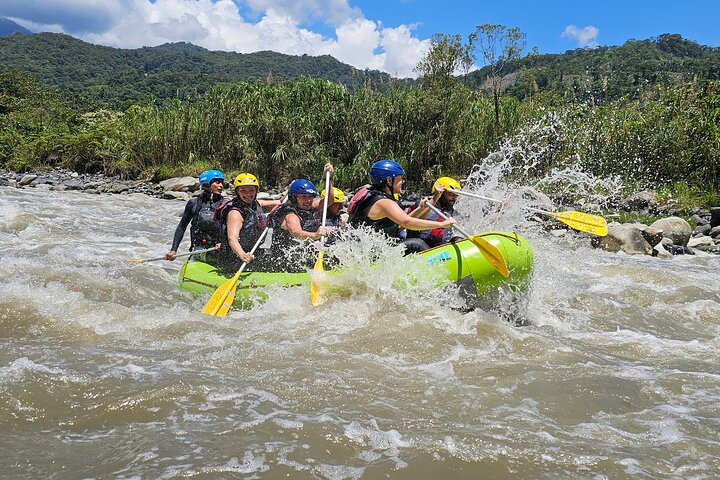
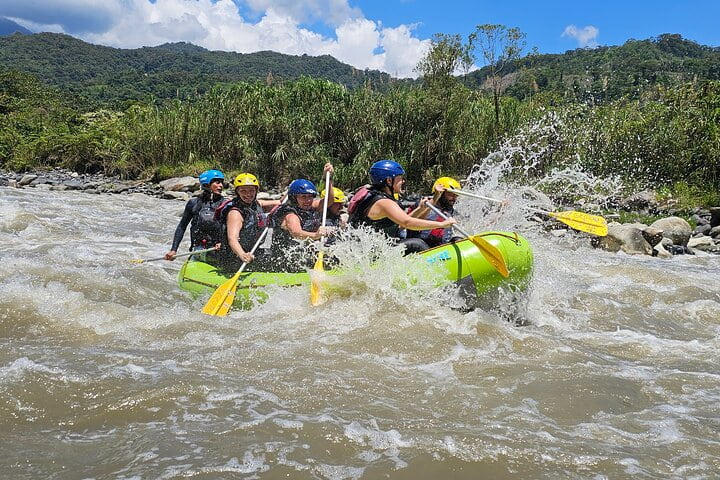
page audit tool

diff --git a/wwr/styles/rafting.css b/wwr/styles/rafting.css
@@ -1,7 +1,7 @@
 :root {
     --primary-color:#ACC8E5;
     --secondary-color: #112A46;
-    --accent1-color: #c0722a;
+    --accent1-color: #8B4F1A;
     --accent2-color: #444444;
 
     --heading-font: Georgia, serif;
@@ -55,7 +55,7 @@ nav {
  nav a {
     flex: 1 1 auto;
     text-decoration: none;
-    color: white;
+    color: #ffffff;
     display: block;
     text-align: center;
     padding: 0.5rem;
@@ -86,7 +86,7 @@ nav {
     text-align: center;
     opacity: 0.7;
     background-color: var(--accent1-color);
-    color: white;
+    color: #ffffff;
 }
 
 .hero article {
@@ -108,7 +108,7 @@ nav {
 footer {
     display: flex;
     margin-top: 15px;
-    border-top: 1px solid #000;
+    border-top: 1px solid #000000;
     text-align: center;
     justify-content: space-between;
     align-items: center;
@@ -155,8 +155,8 @@ footer {
 }
 
 .adventures figcaption {
-    background-color: #222222;
-    color: white;
+    background-color: var(--secondary-color);
+    color: #ffffff;
     font: italic smaller sans-serif;
     padding: 3px;
     text-align: center;
